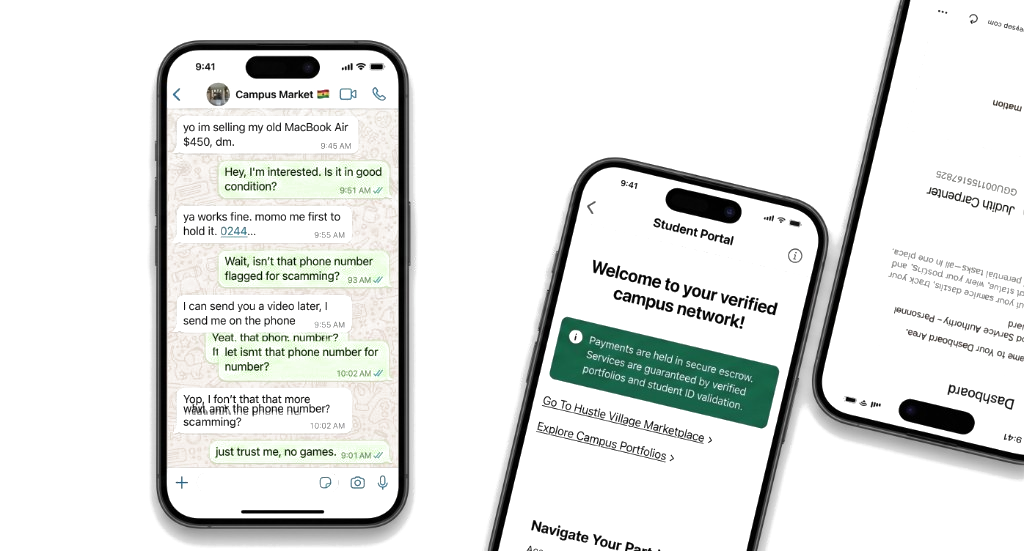
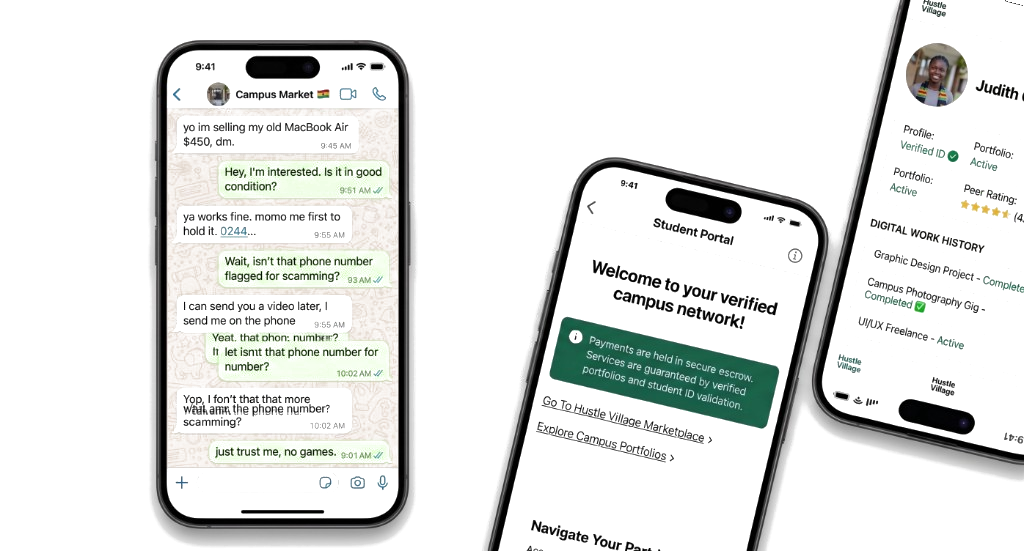
updated hero image

diff --git a/frontend/src/components/landing/Hero.tsx b/frontend/src/components/landing/Hero.tsx
@@ -210,7 +210,7 @@ export const Hero = () => {
 
         <div className="mt-12 md:mt-16 max-w-5xl mx-auto px-2 md:px-0">
           <img
-            src="/hero-mockup.png?v=2"
+            src="/hero-mockup.png?v=3"
             alt="Hustle Village replaces sketchy WhatsApp DMs with a verified campus marketplace, secure escrow payments, and a real seller dashboard."
             className="block w-full h-auto select-none pointer-events-none"
             draggable={false}
